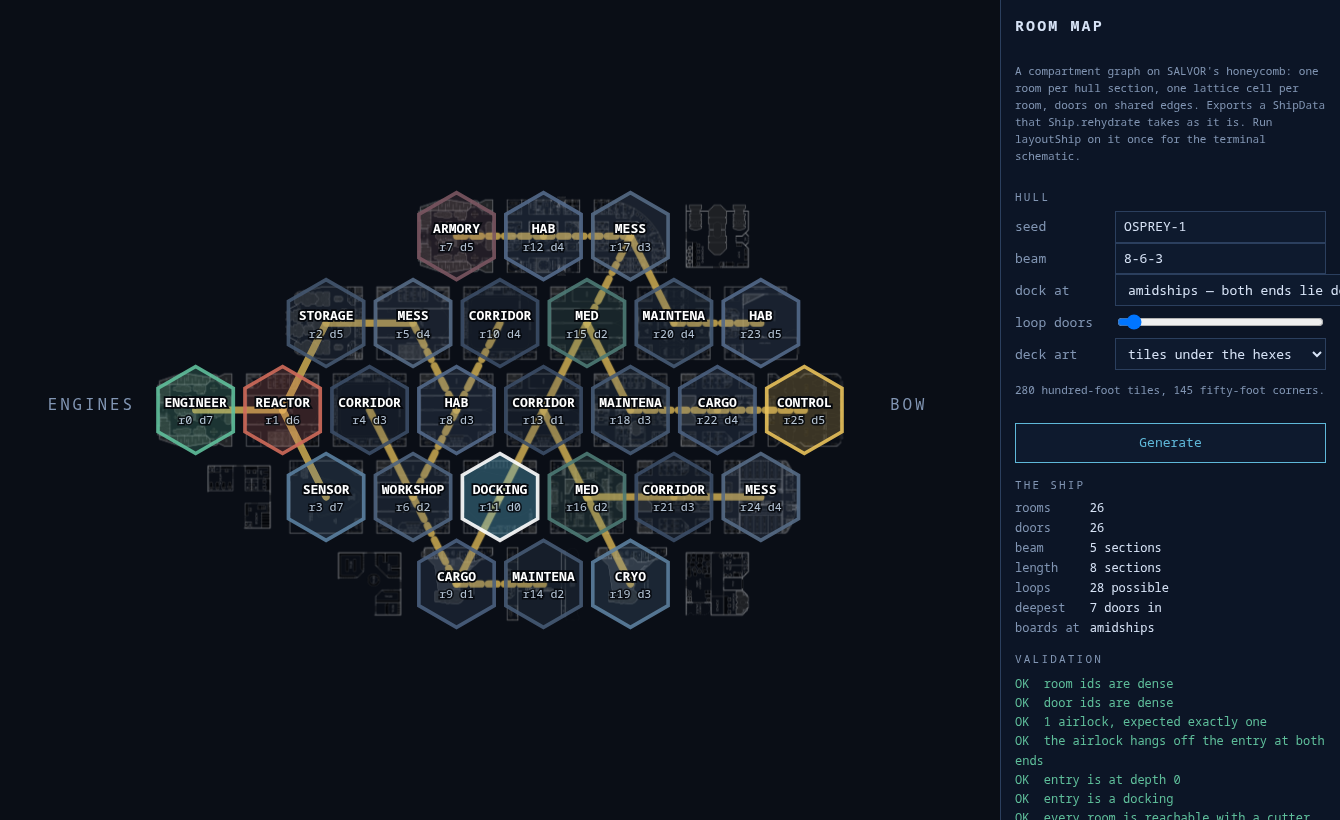
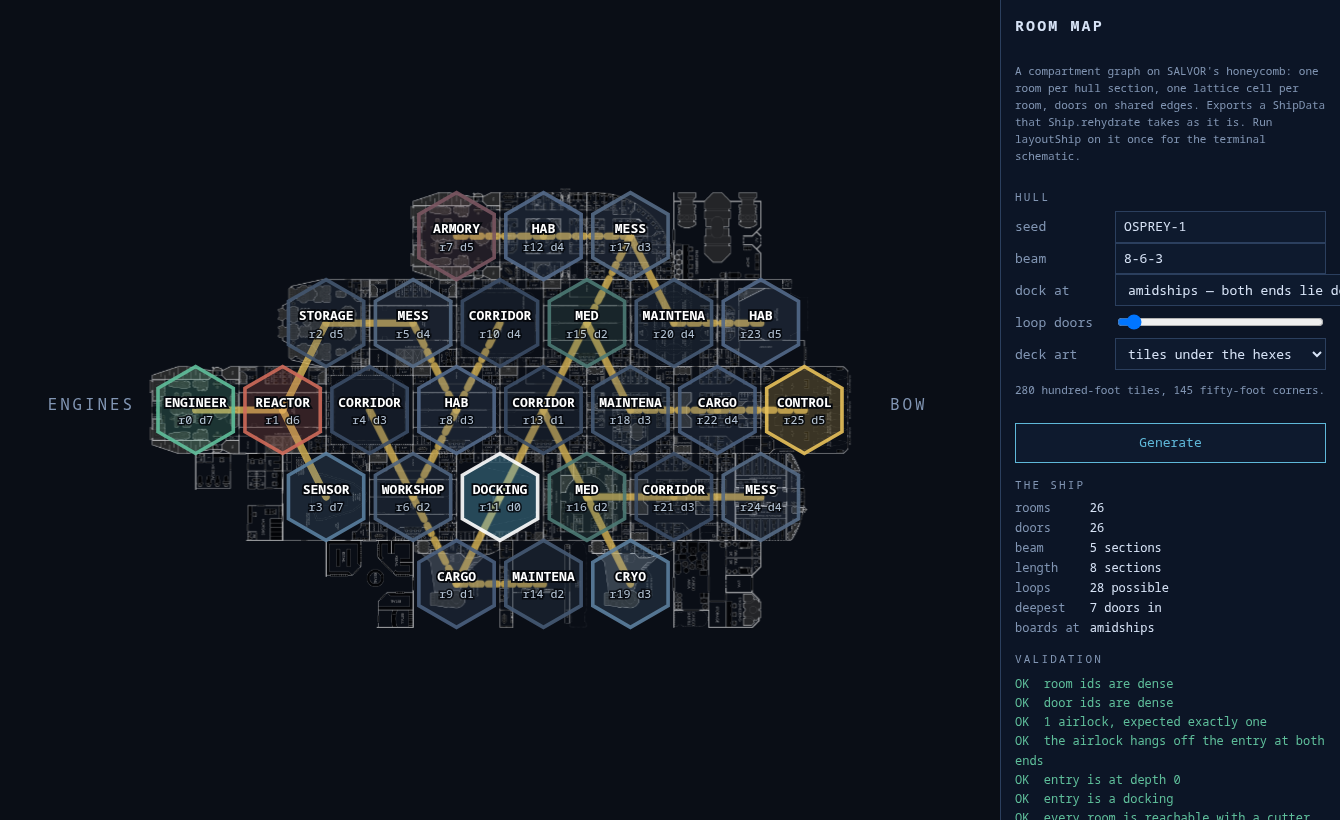
The gap between the tiles was bleed, not geometry
Measured rather than guessed: every hexagon already had its tile exactly on
centre, and tiles were a full pitch wide on a pitch-wide grid, so they
should have met edge to edge. They did not, and the reason was inside the
files.

The archive draws a hundred-foot tile as a 1440 pixel square. A hundred feet
at sixty pixels to a five-foot square is 1200. The other 240 are bleed — two
squares of it on every side — and the manifest records it per tile. Drawn
whole into its own cell every tile sat inside a ten per cent margin, so the
deck came out as a grid of coasters each ringed by space, and the hull read
as unconnected and unsymmetrical because its outline was made of those
rings rather than of the ship.

Each tile is now drawn at the size that puts its deck on the cell and lets
the bleed hang over its neighbours, which is what bleed is for. Walls meet
across a section edge, the plan is continuous, and the silhouette is the
hull's own.

Claude-Session: https://claude.ai/code/session_01Wr52GYJERHjFuwqE6kSUuR

Changed region(s): [[0.0918, 0.2134, 0.6119, 0.7622]]

diff --git a/vuvko_works/roomgen.html b/vuvko_works/roomgen.html
@@ -315,19 +315,40 @@ async function loadTiles(){
       fetch("geomorphs/geomorphs.manifest.json").then(r => r.json()),
       fetch("tiles.taxonomy.json").then(r => r.json()),
     ]);
-    const drawable = new Set(man.tiles.filter(t => !t.overlay).map(t => t.path));
+    /**
+     * How much bigger the file is than the deck inside it.
+     *
+     * The archive draws a hundred-foot tile as 1440 pixels square, and a
+     * hundred feet at sixty pixels to a five-foot square is 1200 — the other
+     * 240 are bleed, two squares of it on every side, which the manifest
+     * records. Drawn whole into its own cell a tile therefore sits inside a
+     * ten per cent margin, and every tile on the deck is ringed by a gap it
+     * did not ask for. That is the gap; it was never the geometry.
+     *
+     * So each tile is drawn at the size that puts its *deck* on the cell and
+     * lets the bleed hang over its neighbours, which is what bleed is for.
+     */
+    const feetPerPx = man.feetPerSquare / man.pxPerSquare;
+    const drawable = new Map();
+    for (const tile of man.tiles){
+      if (tile.overlay) continue;
+      const deckPx = tile.w / feetPerPx;
+      drawable.set(tile.path, deckPx > 0 ? tile.px[0] / deckPx : 1);
+    }
     const byRole = new Map();
     const skin = new Map();
     const doors = new Map();
     const proud = new Map();
     const all = [];
     const corner = new Map();
+    const bleed = new Map();
     for (const path in tax.tiles){
       const tile = tax.tiles[path];
       const ft = tile.ft || [];
       /* One compartment is one section is one hundred feet square. Anything
          else would have to be cut or stretched to sit under a hexagon. */
       if (!drawable.has(path)) continue;
+      bleed.set(path, drawable.get(path));
       /* Fifty-foot pieces are kept aside for the chamfers, and only the ones
          that are edge art: a corner of open deck laid into a hull step reads
          as a hole rather than as plating. */
@@ -339,6 +360,7 @@ async function loadTiles(){
            sides and no art spilling off it. */
         const sk = tile.skin || [];
         if (sk.length !== 2 || (tile.proud || []).length) continue;
+        bleed.set(path, drawable.get(path));
         const key = sk.slice().sort().join("");
         if (!corner.has(key)) corner.set(key, []);
         corner.get(key).push(path);
@@ -354,7 +376,7 @@ async function loadTiles(){
         byRole.get(role).push(path);
       }
     }
-    TILES = all.length ? {byRole, skin, doors, proud, all, corner} : null;
+    TILES = all.length ? {byRole, skin, doors, proud, all, corner, bleed} : null;
     note.textContent = TILES
       ? all.length + " hundred-foot tiles, "
         + [...corner.values()].reduce((n, l) => n + l.length, 0) + " fifty-foot corners."
@@ -897,7 +919,7 @@ function draw(ship, art, sections){
   const hex = pitch * 0.5;
 
   if (art){
-    const plan = el("g", {opacity: .62});
+    const plan = el("g", {opacity: .78});
 
     /* Fifty-foot corners where the hull steps.
 
@@ -935,9 +957,11 @@ function draw(ship, art, sections){
         const pool = TILES.corner.get(key);
         if (!pool || !pool.length) continue;
         const cx = (near.q + near.r / 2) * pitch, cy = near.r * pitch;
+        const chosen = pick(trimRand, pool);
+        const span = pitch * (TILES.bleed.get(chosen) ?? 1);
         plan.appendChild(el("image", {
-          href: "geomorphs/" + pick(trimRand, pool),
-          x: cx - pitch / 2, y: cy - pitch / 2, width: pitch, height: pitch,
+          href: "geomorphs/" + chosen,
+          x: cx - span / 2, y: cy - span / 2, width: span, height: span,
           preserveAspectRatio: "none",
           transform: "rotate(90 " + cx + " " + cy + ")",
           opacity: .85,
@@ -948,10 +972,12 @@ function draw(ship, art, sections){
       const tile = art.get(room.id);
       if (!tile) return;
       const c = seats[i];
-      const half = pitch / 2;
+      /* Sized so the deck inside the file lands on the cell; the bleed goes
+         over the neighbours, where it belongs. */
+      const span = pitch * (TILES.bleed.get(tile) ?? 1);
       plan.appendChild(el("image", {
         href: "geomorphs/" + tile,
-        x: c.x - half, y: c.y - half, width: pitch, height: pitch,
+        x: c.x - span / 2, y: c.y - span / 2, width: span, height: span,
         preserveAspectRatio: "none",
         transform: "rotate(90 " + c.x + " " + c.y + ")",
       }));

diff --git a/vuvko_works/design/generator-for-rooms.md b/vuvko_works/design/generator-for-rooms.md
@@ -213,6 +213,16 @@ east and west and along a half edge on each diagonal, and the deck comes out
 continuous without anything becoming a square grid. Hexagons are inset inside
 their own cells, which is what leaves the gap a corridor runs through.
 
+**The gap between tiles was bleed, not geometry.** The archive draws a
+hundred-foot tile as a 1440-pixel square, and a hundred feet at sixty pixels to
+a five-foot square is 1200 — the other 240 are bleed, two squares of it on every
+side, which the manifest records per tile. Drawn whole into its own cell, every
+tile therefore sat inside a ten per cent margin and the deck came out as a grid
+of coasters with a ring of space round each one. Each tile is now drawn at the
+size that puts its *deck* on the cell, so the bleed hangs over its neighbours,
+which is what bleed is for. That one change is the difference between a deck
+plan and a tile set.
+
 **Four things decide which tile a compartment wears**, all of them read off the
 art by `geomorph_taxonomy.py`, which finds a wall as a white line and a door as
 a black break in it:
